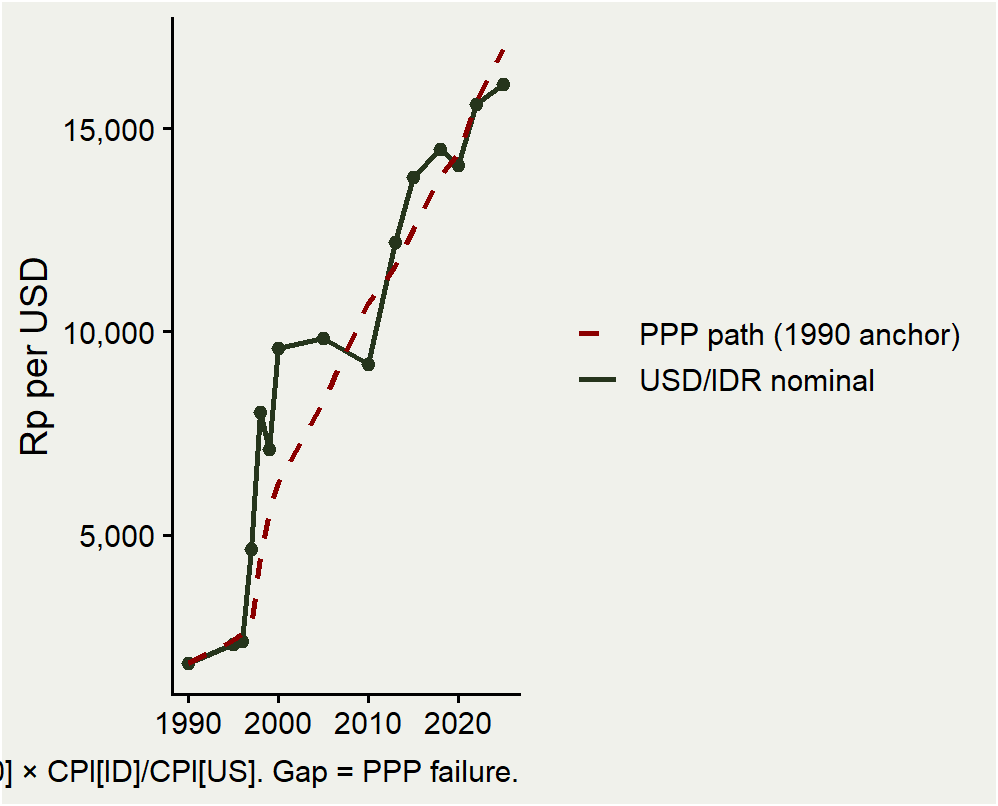
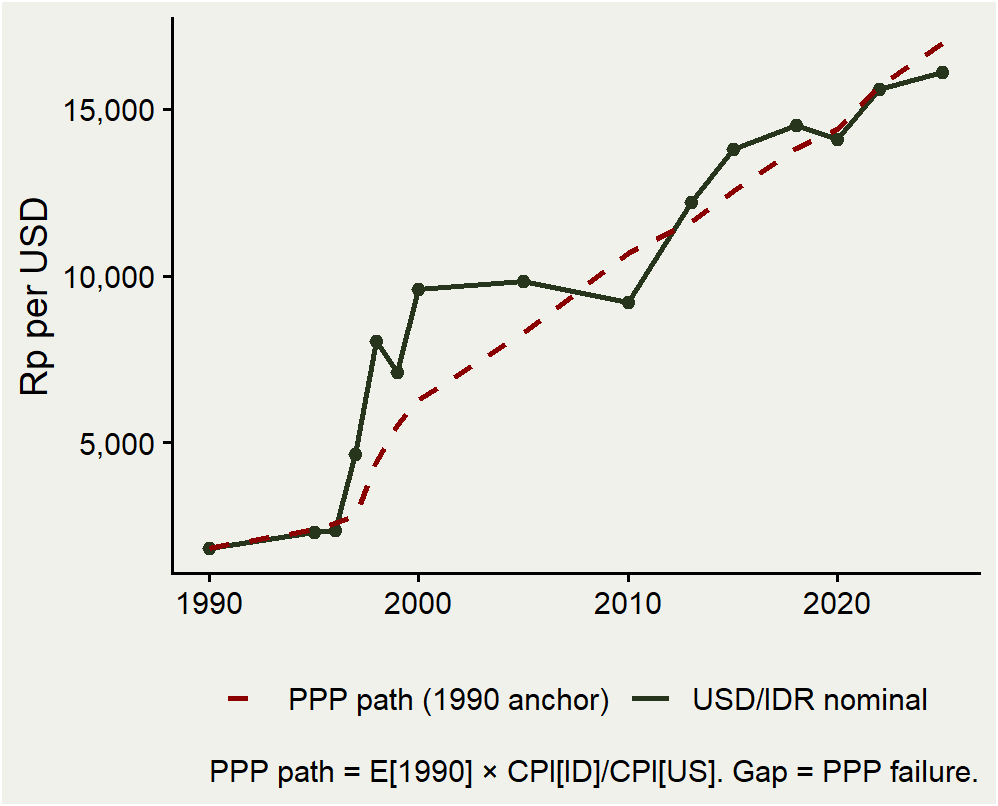
update

diff --git a/static/intecon/meeting12/index.html b/static/intecon/meeting12/index.html
@@ -145,32 +145,19 @@ I Made Krisna Gupta
 <section id="recap-todays-plan" class="slide level2 s">
 <h2>Recap &amp; today’s plan</h2>
 <ul>
-<li><p>Pekan lalu (KOM Ch.14 + intro Ch.15): UIP punya <span class="math inline">\(R\)</span> sebagai <em>given</em>; kita juga sudah lihat preview joint money + FX dan konsep overshooting.</p></li>
-<li><p>Hari ini: derivasi formal money market → bawa <span class="math inline">\(R\)</span> ke FX market → lepas asumsi sticky <span class="math inline">\(P\)</span> → long-run (PPP, monetary approach, Fisher, real ER).</p></li>
-<li><p>Roadmap: <span class="math inline">\(M^d = P\cdot L(R,Y)\)</span> → joint money + FX → money neutrality &amp; overshooting → law of one price → PPP → monetary approach → Fisher → PPP shortcomings → real ER → real interest parity.</p></li>
-</ul>
-</section>
-<section id="roadmap-diagram" class="slide level2 s">
-<h2>Roadmap diagram</h2>
-<ul>
-<li><p><strong>Block 1</strong>: pasar uang formal (Ch.15.1).</p></li>
-<li><p><strong>Block 2</strong>: pasar uang + FX bersamaan (Ch.15.2).</p></li>
-<li><p><strong>Block 3</strong>: long-run, money neutrality, overshooting formal (Ch.15.3-15.5).</p></li>
-<li><p><strong>Block 4</strong>: Law of One Price &amp; PPP (Ch.16.1).</p></li>
-<li><p><strong>Block 5</strong>: monetary approach &amp; Fisher effect (Ch.16.2).</p></li>
-<li><p><strong>Block 6</strong>: PPP gagal — kenapa? (Ch.16.2 end).</p></li>
-<li><p><strong>Block 7</strong>: real exchange rate approach &amp; real interest parity (Ch.16.3-16.5).</p></li>
+<li><p>Kemarin: Basic exchange rate, UIP dan CIP.</p></li>
+<li><p>Hari ini: demand for money and exchange rate in the long run.</p></li>
 </ul>
 </section>
 <section id="aggregate-money-demand" class="slide level2 s">
 <h2>Aggregate money demand</h2>
 <ul>
-<li>Demand uang riil per kapita (KOM Ch.15.1):</li>
+<li>Demand uang riil per kapita:</li>
 </ul>
 <p><span class="math display">\[
 \frac{M^d}{P} = L(R, Y)
 \]</span></p>
-<pre><code>di mana $M^d$ = demand uang nominal, $P$ = level harga (IHK BPS), $R$ = nominal interest rate (BI 7DRR atau JIBOR), $Y$ = pendapatan nasional riil (PDB riil).</code></pre>
+<p>di mana <span class="math inline">\(M^d\)</span> = demand uang nominal, <span class="math inline">\(P\)</span> = level harga (IHK BPS), <span class="math inline">\(R\)</span> = nominal interest rate (BI 7DRR atau JIBOR), <span class="math inline">\(Y\)</span> = pendapatan nasional riil (PDB riil).</p>
 <ul>
 <li><p><span class="math inline">\(L(R, Y)\)</span> menurun di <span class="math inline">\(R\)</span> (opportunity cost pegang cash) dan menaik di <span class="math inline">\(Y\)</span> (volume transaksi).</p></li>
 <li><p>Memorize: <strong>“real money demand depends negatively on <span class="math inline">\(R\)</span> and positively on <span class="math inline">\(Y\)</span>”</strong>.</p></li>
@@ -199,12 +186,11 @@ I Made Krisna Gupta
 </div>
 </div></div>
 </section>
-<section id="shift-dari-kenaikan-y" class="slide level2 s">
+<section id="shift-dari-kenaikan-y" class="slide level2">
 <h2>Shift dari kenaikan <span class="math inline">\(Y\)</span></h2>
 <ul>
-<li><p>KOM Fig 15.2: kenaikan pendapatan nasional riil dari <span class="math inline">\(Y_0\)</span> ke <span class="math inline">\(Y_1\)</span> menggeser seluruh kurva <em>ke kanan/atas</em>.</p></li>
+<li><p>Kenaikan pendapatan nasional riil dari <span class="math inline">\(Y_0\)</span> ke <span class="math inline">\(Y_1\)</span> menggeser seluruh kurva <em>ke kanan/atas</em>.</p></li>
 <li><p>Pada setiap level <span class="math inline">\(R\)</span>, orang menginginkan lebih banyak saldo riil — karena transaksi lebih banyak.</p></li>
-<li><p>Indonesian numerik: jika PDB tumbuh 5% setahun, demand uang riil naik sekitar 5% pada <span class="math inline">\(R\)</span> konstan (asumsi income elasticity ≈ 1).</p></li>
 <li><p>Kebijakan implikasi: pertumbuhan ekonomi yang sehat butuh ekspansi monetary <em>supply</em> proporsional — jika tidak, <span class="math inline">\(R\)</span> akan naik dan <em>crowd out</em> investasi.</p></li>
 </ul>
 </section>
@@ -259,7 +245,7 @@ I Made Krisna Gupta
 <h2>M2 growth vs BI 7DRR</h2>
 
 <img data-src="index_files/figure-revealjs/unnamed-chunk-4-1.png" width="960" class="r-stretch"></section>
-<section id="linking-money-market-ke-fx" class="slide level2 s">
+<section id="linking-money-market-ke-fx" class="slide level2 m">
 <h2>Linking money market ke FX</h2>
 <ul>
 <li><span class="math inline">\(R\)</span> yang ditentukan di money market = <em>input</em> untuk UIP:</li>
@@ -278,15 +264,11 @@ R = R^* + \frac{E^e - E}{E}
 <div class="columns">
 <div class="column" style="width:40%;">
 <p><strong>Money market (atas)</strong>:</p>
-<ul>
-<li><span class="math inline">\(M^s/P\)</span> vertikal, <span class="math inline">\(L(R, Y)\)</span> menurun.</li>
-<li>Equilibrium <span class="math inline">\(R^*_{\text{ID}}\)</span> di perpotongan.</li>
-</ul>
+<p><span class="math inline">\(M^s/P\)</span> vertikal, <span class="math inline">\(L(R, Y)\)</span> menurun, Equilibrium <span class="math inline">\(R^*_{\text{ID}}\)</span> di perpotongan.</p>
 <p><strong>FX market (bawah)</strong>:</p>
 <ul>
 <li>IDR return vertikal di <span class="math inline">\(R^*_{\text{ID}}\)</span> (dari money market).</li>
 <li>USD return menurun di <span class="math inline">\(E\)</span>.</li>
-<li>Equilibrium <span class="math inline">\(E^*\)</span>.</li>
 </ul>
 <p><strong>Kunci</strong>: <span class="math inline">\(R^*_{\text{ID}}\)</span> dari money market menjadi anchor garis vertikal di FX.</p>
 </div><div class="column" style="width:60%;">
@@ -301,7 +283,7 @@ R = R^* + \frac{E^e - E}{E}
 </div>
 </div></div>
 </section>
-<section id="shock-1-bi-ekspansi-moneter" class="slide level2 s">
+<section id="shock-1-bi-ekspansi-moneter" class="slide level2">
 <h2>Shock 1: BI ekspansi moneter</h2>
 <ul>
 <li><p>BI naikkan <span class="math inline">\(M^s\)</span> (beli SBN via OMO ekspansif).</p></li>
@@ -311,7 +293,7 @@ R = R^* + \frac{E^e - E}{E}
 <li><p>Intuisi: bunga rupiah turun → investor cari yield USD → demand USD naik → IDR melemah.</p></li>
 </ul>
 </section>
-<section id="shock-2-fed-ekspansi-moneter" class="slide level2 s">
+<section id="shock-2-fed-ekspansi-moneter" class="slide level2">
 <h2>Shock 2: Fed ekspansi moneter</h2>
 <ul>
 <li><p>Fed naikkan <span class="math inline">\(M^s_{US}\)</span> → <span class="math inline">\(R^*\)</span> (Fed Funds) turun.</p></li>
@@ -321,7 +303,7 @@ R = R^* + \frac{E^e - E}{E}
 <li><p>Simetris: dovish Fed = tailwind untuk EM currencies, termasuk IDR.</p></li>
 </ul>
 </section>
-<section id="asymmetry-penting" class="slide level2 s">
+<section id="asymmetry-penting" class="slide level2">
 <h2>Asymmetry penting</h2>
 <ul>
 <li><p>Perubahan <span class="math inline">\(M^s_{ID}\)</span> → bergerak <em>di kedua</em> market.</p></li>
@@ -335,11 +317,10 @@ R = R^* + \frac{E^e - E}{E}
 <h2>BI rate vs USD/IDR</h2>
 
 <img data-src="index_files/figure-revealjs/unnamed-chunk-6-1.png" width="960" class="r-stretch"></section>
-<section id="short-run-vs-long-run" class="slide level2 s">
-<h2>Short-run vs long-run</h2>
+<section id="the-long-run" class="slide level2 s">
+<h2>The long-run</h2>
 <ul>
-<li><p>Sejauh ini asumsi: <span class="math inline">\(P\)</span> <em>sticky</em> dalam short-run.</p></li>
-<li><p>Sekarang lepas asumsi itu: dalam long-run, <span class="math inline">\(P\)</span> menyesuaikan penuh.</p></li>
+<li><p>Dalam jangka panjang, <span class="math inline">\(P\)</span> menyesuaikan penuh.</p></li>
 <li><p><span class="math inline">\(Y\)</span> kembali ke potential output (ditentukan supply riil: tenaga kerja, kapital, teknologi).</p></li>
 <li><p><span class="math inline">\(R\)</span> riil kembali ke level natural (savings vs investment).</p></li>
 <li><p>Yang berubah dalam long-run: <span class="math inline">\(P\)</span> dan <span class="math inline">\(E\)</span> secara nominal.</p></li>
@@ -349,7 +330,7 @@ R = R^* + \frac{E^e - E}{E}
 <section id="empirical-m-growth-vs-inflasi" class="slide level2 s">
 <h2>Empirical: M growth vs inflasi</h2>
 <ul>
-<li><p>KOM Fig 15.10: rata-rata negara Latin Amerika 1987-2014 → korelasi tinggi antara money growth dan inflasi.</p></li>
+<li><p>rata-rata negara Latin Amerika 1987-2014 → korelasi tinggi antara money growth dan inflasi.</p></li>
 <li><p>Untuk Indonesia long-run: hyperinflation 1965-66 (sudah dibahas M11) adalah kasus paling ekstrem.</p></li>
 <li><p>Periode stabil 2000-2025: M2 growth ≈ 8-12%/tahun, inflasi ≈ 3-5%/tahun. Gap = pertumbuhan permintaan riil uang (income effect).</p></li>
 <li><p>Lesson: hubungan <span class="math inline">\(M\)</span>-<span class="math inline">\(P\)</span> kuat <em>di rata-rata</em> jangka panjang; tidak harus tahun-per-tahun.</p></li>
@@ -467,7 +448,7 @@ E_{Rp/USD} = \frac{3.280.000}{200} = 16.400
 <li><p>Aktual depresiasi USD/IDR: 9.200 (2010) → 16.400 (2026) = ~3,7%/tahun ⇒ gap dengan PPP ~2%/tahun (lebih banyak depresiasi dari prediksi PPP).</p></li>
 </ul>
 </section>
-<section id="big-mac-indonesia" class="slide level2 m">
+<section id="big-mac-indonesia" class="slide level2 s">
 <h2>Big Mac Indonesia</h2>
 <div class="columns">
 <div class="column" style="width:55%;">
@@ -628,7 +609,7 @@ R - R^* = \pi^e - \pi^{*e}
 <li><p>Aktual: USD/IDR jauh lebih volatile dari CPI ratio.</p></li>
 </ul>
 </section>
-<section id="crisis-ppp-failure" class="slide level2 m">
+<section id="crisis-ppp-failure" class="slide level2 s">
 <h2>1997 crisis &amp; PPP failure</h2>
 <div class="columns">
 <div class="column" style="width:55%;">
@@ -754,7 +735,7 @@ q = \frac{E \cdot P^*}{P}
 <li><p>Real ER approach = lebih lengkap.</p></li>
 </ul>
 </section>
-<section id="nickel-boom" class="slide level2 m">
+<section id="nickel-boom" class="slide level2 s">
 <h2>2022 Nickel boom</h2>
 <div class="columns">
 <div class="column" style="width:55%;">